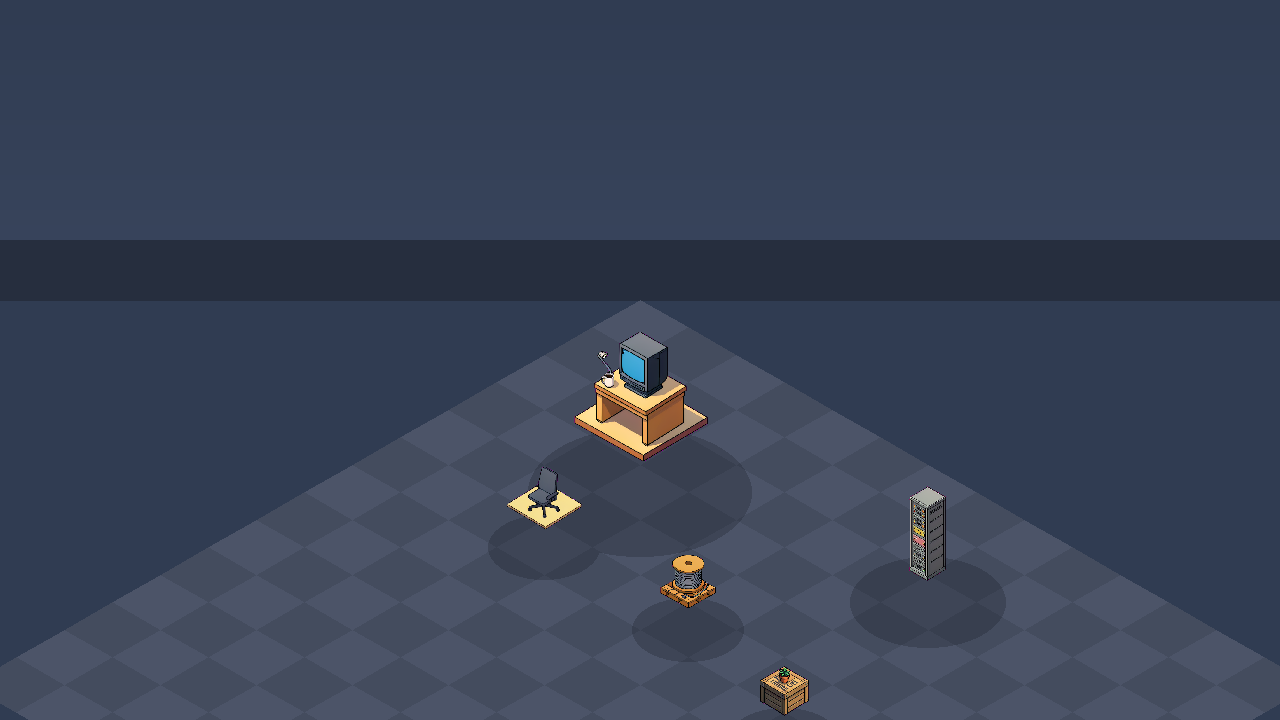
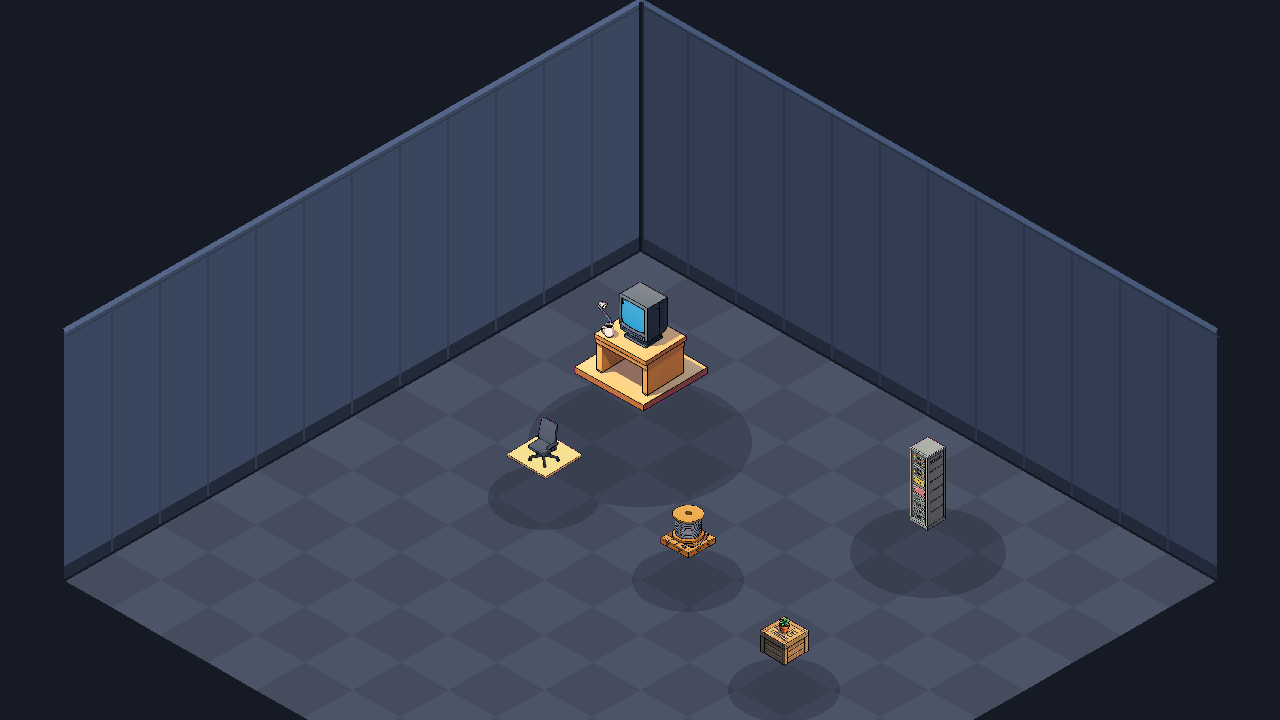
feat(geometry): isometric walls, wall-plane anchors, and architectural cues
The room now reads as an enclosed isometric diorama instead of an asset blockout floating on a
plane (review: "It reads immediately as an isometric room/diorama... walls and floor meet
correctly, props sit believably").

- two wall PLANES raised from the floor's two far edges, drawn from the same lattice, with a
  slightly darker right-hand plane so the corner reads
- wall_to_screen(gx, height, side) - the second anchor type from ADR-065, verified: h=0 lands
  exactly on the floor seam, h=200 is 200px up the same plane, and both planes share the far
  corner with the floor grid (asserted, not eyeballed)
- architectural cues, because flat planes fading into the void read as unfinished: wall-top cap
  (gives thickness), panel joins every tile (material + scale), an ambient-occlusion line at the
  floor seam, and a vertical seam at the inside corner
- lattice re-sized 14x14 -> 12x12 with the far corner at y=250, so the 250px wall rise reaches
  y=0 exactly and the floor diamond fits the canvas horizontally (x 64..1216). The near corner
  falling off the bottom at y=910 is normal game framing, not the side-clipping asymmetry the
  earlier 14x14 grid had (which is what made a review read the floor as 24 degrees).

Review verdict: coherent room, 4/10 toward a shipped look. Named biggest remaining gap:
prop shadowing/lighting - identical soft blob shadows, no contact hardening, no single light
[…]

diff --git a/scripts/room_geometry.py b/scripts/room_geometry.py
@@ -45,18 +45,27 @@ ROOM = {
     # pixel-art convention, and props are gated tightly to it rather than tolerated.
     "projection": "true isometric, 30 degrees (base slope 0.5774; Pharaoh/Zeus look)",
     "floor": {
-        "origin": {"x": 640, "y": 300},      # grid (0,0) on screen; the floor's far corner
+        "origin": {"x": 640, "y": 250},      # grid (0,0) on screen; the floor's far corner
         "tile_w": 96,
         "tile_h": 55,                         # 55/96 = 0.573 ~= tan(30 deg); see DECIDED above
-        "grid": {"x": 14, "y": 14},           # how many cells each way are drawn
+        # 12x12 keeps the floor diamond inside the canvas horizontally (x 64..1216) and puts the
+        # far corner at y=250 so a 250px wall rise reaches y=0 exactly. The NEAR corner falls off
+        # the bottom of the frame at y=910 - that is normal for a game camera showing part of a
+        # room, and unlike side clipping it is not an asymmetry.
+        "grid": {"x": 12, "y": 12},           # how many cells each way are drawn
         "colours": {"a": (76, 84, 104), "b": (68, 76, 94), "grout": (44, 52, 68)},
     },
     "wall": {
-        "seam_y": 300,                        # floor plane starts here; baseboard sits on it
-        "colour": (58, 70, 94),
-        "upper_colour": (48, 60, 82),
-        "baseboard": (38, 46, 62),
-        "height_px": 60,                      # thickness of darker band under the seam
+        # The room is enclosed by the TWO far wall planes, raised from the two far edges of the
+        # floor diamond. A flat horizontal band (the first version) is what made the composite
+        # read as "an asset blockout floating on a plane": with a declared lattice the walls are
+        # geometry, not a gradient.
+        "rise_px": 250,                        # wall height in screen pixels, purely vertical
+        "colour": (58, 70, 94),                # left-back plane
+        "colour2": (50, 61, 84),               # right-back plane (slightly darker = corner reads)
+        "baseboard": (34, 42, 58),
+        "baseboard_px": 14,
+        "void": (22, 26, 36),                  # outside the room, incl. above the walls
     },
 }
 
@@ -67,20 +76,35 @@ def grid_to_screen(gx, gy, f=None):
     return (o["x"] + (gx - gy) * tw / 2.0, o["y"] + (gx + gy) * th / 2.0)
 
 
+def wall_to_screen(gx, height, side="right", f=None):
+    """Screen position on a WALL PLANE - the second anchor type from ADR-065.
+
+    A wall-mounted object is not on the floor grid: it has a position ALONG the wall and a
+    height ABOVE the floor seam. Keeping this separate from grid_to_screen is what lets
+    wall decor and floor furniture stay consistent without pretending they share a plane.
+
+    side="right" -> the plane rising from the floor edge (0,0)->(gx_max,0)
+    side="left"  -> the plane rising from the floor edge (0,0)->(0,gy_max)
+    """
+    f = f or ROOM["floor"]
+    a = grid_to_screen(0, 0, f)
+    if side == "right":
+        b = grid_to_screen(f["grid"]["x"], 0, f)
+    else:
+        b = grid_to_screen(0, f["grid"]["y"], f)
+    t = gx / float(f["grid"]["x"] if side == "right" else f["grid"]["y"])
+    x = a[0] + (b[0] - a[0]) * t
+    y = a[1] + (b[1] - a[1]) * t - height
+    return (x, y)
+
+
 def draw_room(show_grid=False):
     W, H = ROOM["canvas"]["w"], ROOM["canvas"]["h"]
     w, f = ROOM["wall"], ROOM["floor"]
-    img = Image.new("RGB", (W, H), w["upper_colour"])
+    img = Image.new("RGB", (W, H), w["void"])
     d = ImageDraw.Draw(img)
 
-    # wall: subtle vertical gradient, then the baseboard band
-    for y in range(0, w["seam_y"]):
-        t = y / max(1, w["seam_y"])
-        c = tuple(int(w["upper_colour"][i] + (w["colour"][i] - w["upper_colour"][i]) * t) for i in range(3))
-        d.line([(0, y), (W, y)], fill=c)
-    d.rectangle([0, w["seam_y"] - w["height_px"], W, w["seam_y"]], fill=w["baseboard"])
-
-    # floor: alternating rhombi on the declared lattice
+    # --- floor: alternating rhombi on the declared lattice ---
     gx_max, gy_max = f["grid"]["x"], f["grid"]["y"]
     for gx in range(gx_max):
         for gy in range(gy_max):
@@ -88,6 +112,55 @@ def draw_room(show_grid=False):
                    grid_to_screen(gx + 1, gy + 1), grid_to_screen(gx, gy + 1)]
             col = f["colours"]["a"] if (gx + gy) % 2 == 0 else f["colours"]["b"]
             d.polygon(pts, fill=col, outline=f["colours"]["grout"] if show_grid else None)
+
+    # --- the two rising wall planes, drawn from the same lattice ---
+    rise = w["rise_px"]
+    corners = {
+        "far": grid_to_screen(0, 0),
+        "right": grid_to_screen(gx_max, 0),
+        "left": grid_to_screen(0, gy_max),
+    }
+    for side, colour in (("left", w["colour"]), ("right", w["colour2"])):
+        a = corners["far"]
+        b = corners["left"] if side == "left" else corners["right"]
+        quad = [a, b, (b[0], b[1] - rise), (a[0], a[1] - rise)]
+        d.polygon(quad, fill=colour)
+        # baseboard: a band sitting on the floor seam
+        bb = w["baseboard_px"]
+        band = [a, b, (b[0], b[1] - bb), (a[0], a[1] - bb)]
+        d.polygon(band, fill=w["baseboard"])
+        if show_grid:
+            d.line([a, (a[0], a[1] - rise)], fill=(120, 130, 150))
+            d.line([b, (b[0], b[1] - rise)], fill=(120, 130, 150))
+    if show_grid:
+        d.line([corners["far"], (corners["far"][0], corners["far"][1] - rise)], fill=(120, 130, 150))
+
+    # --- architectural cues. Without these the walls read as flat planes fading into the void
+    # (review: "no wall top, no corner, no material"). All derived from the same lattice. ---
+    def shade(col, f):
+        return tuple(max(0, min(255, int(c * f))) for c in col)
+
+    for side, colour in (("left", w["colour"]), ("right", w["colour2"])):
+        a = corners["far"]
+        b = corners["left"] if side == "left" else corners["right"]
+        top_a = (a[0], a[1] - rise)
+        top_b = (b[0], b[1] - rise)
+        # wall-top cap: a lighter band so the wall has thickness instead of fading out
+        d.line([top_a, top_b], fill=shade(colour, 1.45), width=5)
+        d.line([(top_a[0] + 3, top_a[1] + 6), (top_b[0] + 3, top_b[1] + 6)], fill=shade(colour, 0.8), width=2)
+        # panel joins every tile along the wall: gives the plane a material and a scale
+        n = f["grid"]["x"] if side == "right" else f["grid"]["y"]
+        for gi in range(1, n):
+            p0 = wall_to_screen(gi, 0, side)
+            d.line([(p0[0], p0[1] - 2), (p0[0], p0[1] - rise + 6)], fill=shade(colour, 0.86), width=2)
+        # ambient occlusion where the wall meets the floor: the seam needs weight or both the
+        # wall and the objects on the floor read as pasted on
+        d.line([a, b], fill=shade(w["baseboard"], 0.6), width=3)
+
+    # the inside corner: a vertical seam so the 90-degree join is legible
+    cx, cy = corners["far"]
+    d.line([(cx, cy - rise + 2), (cx, cy)], fill=shade(w["baseboard"], 0.5), width=4)
+    d.line([(cx + 2, cy - rise + 2), (cx + 2, cy)], fill=shade(w["colour"], 0.55), width=2)
     return img, d
 
 
